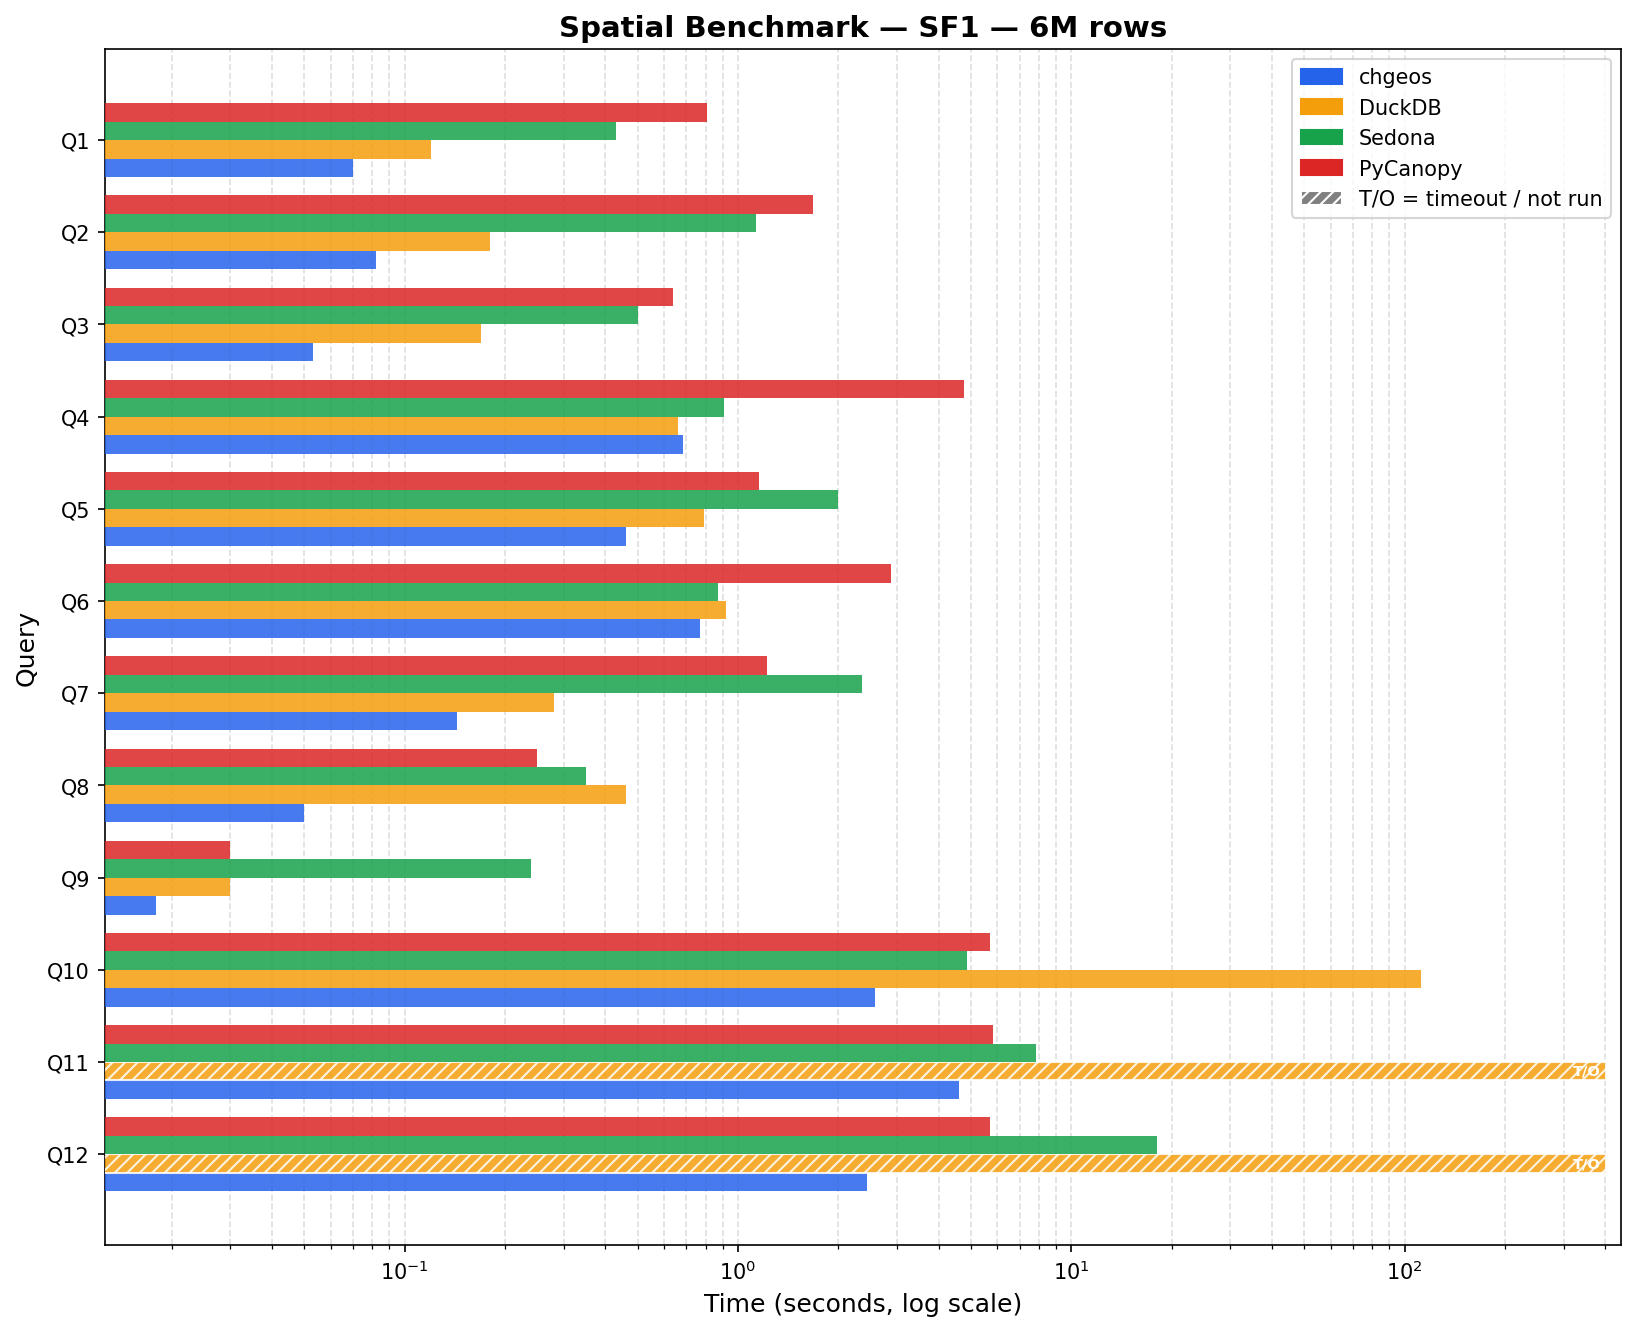
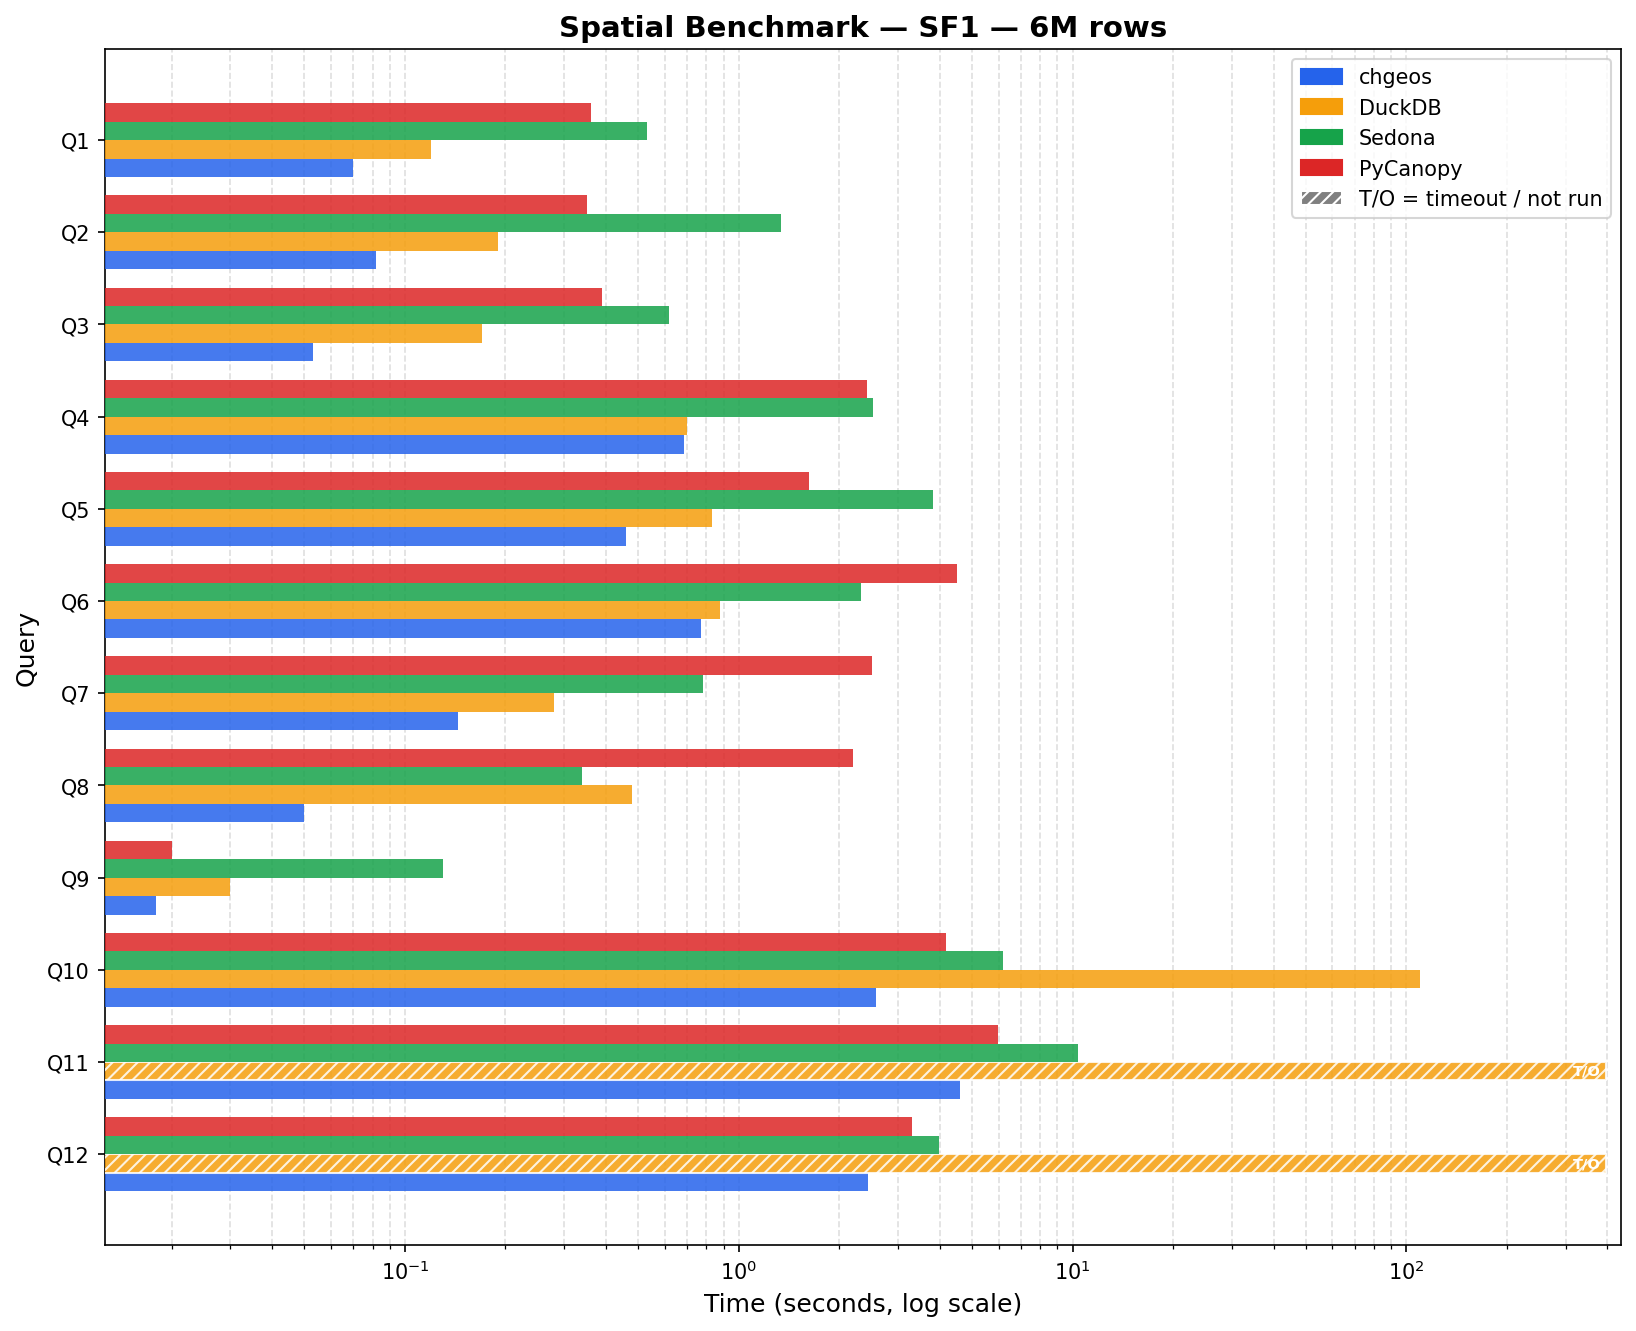
Re-measure DuckDB, SedonaDB and PyCanopy on 2026-10-04
DuckDB 1.5.6, SedonaDB 0.4.1, PyCanopy 0.4.1 on the same box and split
Parquet files, 5 runs, 120 s timeout. Tallies unchanged: SF1 11 wins +
1 tie, SF10 9 wins, 2 DuckDB (Q4, Q7), 1 tie.

Claude-Session: https://claude.ai/code/session_01JZhEQgwKLv4Drk38uDWLaY

diff --git a/BENCHMARK.md b/BENCHMARK.md
@@ -7,9 +7,10 @@ Apache Sedona (SedonaDB) and PyCanopy on the spatial benchmark suite.
 **Dataset:** synthetic taxi trip data from https://github.com/apache/sedona-spatialbench — SF1 = 6M trips, SF10 = 60M trips  
 **Timeout:** 120 s (all engines)  
 **chgeos version:** 2026-10-04 (CH `95fbe4909e6`)  
-**DuckDB version:** 1.5.6 (re-measured 2026-10-04)  
-**Sedona version:** 0.3.0  
-**PyCanopy:** measured 2026-07-29  
+**DuckDB version:** 1.5.6  
+**SedonaDB version:** 0.4.1  
+**PyCanopy version:** 0.4.1 (Polars 1.44.2)  
+**Competitors measured:** 2026-10-04, same box and split Parquet files, via sedona-spatialbench `run_benchmark.py`  
 **Runs:** 5 per query (average reported)  
 **Winner:** fastest engine; margins under 5% are reported as a tie
 
@@ -19,18 +20,18 @@ Apache Sedona (SedonaDB) and PyCanopy on the spatial benchmark suite.
 
 | Query | Description                        | chgeos   | DuckDB   | Sedona  | PyCanopy | Winner   |
 |-------|------------------------------------|----------|----------|---------|----------|----------|
-| Q1    | Point-in-radius filter             | 0.07 s   | 0.12 s   | 0.43 s  | 0.81 s   | chgeos   |
-| Q2    | Count trips in county polygon      | 0.08 s   | 0.18 s   | 1.13 s  | 1.68 s   | chgeos   |
-| Q3    | Monthly stats in bbox+buffer       | 0.05 s   | 0.17 s   | 0.50 s  | 0.64 s   | chgeos   |
-| Q4    | Zone distribution (top-1000 tips)  | 0.68 s   | 0.66 s   | 0.91 s  | 4.78 s   | Tie      |
-| Q5    | Convex hull area per customer/month| 0.46 s   | 0.79 s   | 2.00 s  | 1.16 s   | chgeos   |
-| Q6    | Zone stats for bbox-intersect zones| 0.77 s   | 0.92 s   | 0.87 s  | 2.88 s   | chgeos   |
-| Q7    | Detour ratio (all trips)           | 0.14 s   | 0.28 s   | 2.35 s  | 1.22 s   | chgeos   |
-| Q8    | Nearby pickups per building        | 0.05 s   | 0.46 s   | 0.35 s  | 0.25 s   | chgeos   |
-| Q9    | Building conflation via IoU        | 0.02 s   | 0.03 s   | 0.24 s  | 0.03 s   | chgeos   |
-| Q10   | Zone avg duration/distance         | 2.58 s   | 111.59 s | 4.87 s  | 5.70 s   | chgeos   |
-| Q11   | Cross-zone trip count              | 4.60 s   | TIMEOUT  | 7.82 s  | 5.84 s   | chgeos   |
-| Q12   | 5 nearest buildings per trip (kNN) | 2.44 s   | TIMEOUT  | 18.07 s | 5.71 s   | chgeos   |
+| Q1    | Point-in-radius filter             | 0.07 s   | 0.12 s   | 0.53 s  | 0.36 s   | chgeos   |
+| Q2    | Count trips in county polygon      | 0.08 s   | 0.19 s   | 1.34 s  | 0.35 s   | chgeos   |
+| Q3    | Monthly stats in bbox+buffer       | 0.05 s   | 0.17 s   | 0.62 s  | 0.39 s   | chgeos   |
+| Q4    | Zone distribution (top-1000 tips)  | 0.68 s   | 0.70 s   | 2.53 s  | 2.42 s   | Tie      |
+| Q5    | Convex hull area per customer/month| 0.46 s   | 0.83 s   | 3.83 s  | 1.62 s   | chgeos   |
+| Q6    | Zone stats for bbox-intersect zones| 0.77 s   | 0.88 s   | 2.32 s  | 4.52 s   | chgeos   |
+| Q7    | Detour ratio (all trips)           | 0.14 s   | 0.28 s   | 0.78 s  | 2.50 s   | chgeos   |
+| Q8    | Nearby pickups per building        | 0.05 s   | 0.48 s   | 0.34 s  | 2.20 s   | chgeos   |
+| Q9    | Building conflation via IoU        | 0.02 s   | 0.03 s   | 0.13 s  | 0.02 s   | chgeos   |
+| Q10   | Zone avg duration/distance         | 2.58 s   | 110.10 s | 6.20 s  | 4.18 s   | chgeos   |
+| Q11   | Cross-zone trip count              | 4.60 s   | TIMEOUT  | 10.39 s | 5.97 s   | chgeos   |
+| Q12   | 5 nearest buildings per trip (kNN) | 2.44 s   | TIMEOUT  | 3.97 s  | 3.31 s   | chgeos   |
 
 **SF1 wins — chgeos: 11, DuckDB: 0, Sedona: 0, PyCanopy: 0, Ties: 1**
 
@@ -66,26 +67,25 @@ explained by this — see the Q7 note below.
 
 | Query | Description                        | chgeos    | DuckDB   | Sedona   | PyCanopy | Winner   |
 |-------|------------------------------------|-----------|----------|----------|----------|----------|
-| Q1    | Point-in-radius filter             | 0.31 s    | 0.33 s   | 0.94 s   | 18.93 s  | chgeos   |
-| Q2    | Count trips in county polygon      | 0.38 s    | 0.48 s   | 1.64 s   | 12.81 s  | chgeos   |
-| Q3    | Monthly stats in bbox+buffer       | 0.33 s    | 0.45 s   | 1.43 s   | 14.59 s  | chgeos   |
-| Q4    | Zone distribution (top-1000 tips)  | 1.14 s    | 1.08 s   | 1.86 s   | 19.80 s  | DuckDB   |
-| Q5    | Convex hull area per customer/month| 5.24 s    | 7.36 s   | 42.43 s  | 21.93 s  | chgeos   |
-| Q6    | Zone stats for bbox-intersect zones| 1.59 s    | 1.59 s   | 2.86 s   | 7.74 s   | Tie      |
-| Q7    | Detour ratio (all trips)           | 0.96 s    | 0.84 s   | 42.28 s  | 14.39 s  | DuckDB   |
-| Q8    | Nearby pickups per building        | 0.50 s    | 1.53 s   | 2.02 s   | 2.69 s   | chgeos   |
-| Q9    | Building conflation via IoU        | 0.04 s    | 0.13 s   | 0.37 s   | 0.06 s   | chgeos   |
-| Q10   | Zone avg duration/distance         | 14.05 s   | TIMEOUT  | 17.02 s  | 27.05 s  | chgeos   |
-| Q11   | Cross-zone trip count              | 28.22 s   | TIMEOUT  | TIMEOUT  | 42.97 s  | chgeos   |
-| Q12   | 5 nearest buildings per trip (kNN) | 31.67 s   | TIMEOUT  | TIMEOUT  | 98.60 s  | chgeos   |
+| Q1    | Point-in-radius filter             | 0.31 s    | 0.41 s   | 1.45 s   | 3.19 s   | chgeos   |
+| Q2    | Count trips in county polygon      | 0.38 s    | 0.47 s   | 2.29 s   | 3.02 s   | chgeos   |
+| Q3    | Monthly stats in bbox+buffer       | 0.33 s    | 0.50 s   | 2.20 s   | 3.34 s   | chgeos   |
+| Q4    | Zone distribution (top-1000 tips)  | 1.14 s    | 0.98 s   | 4.48 s   | 6.48 s   | DuckDB   |
+| Q5    | Convex hull area per customer/month| 5.24 s    | 6.28 s   | 25.94 s  | 21.68 s  | chgeos   |
+| Q6    | Zone stats for bbox-intersect zones| 1.59 s    | 1.55 s   | 4.58 s   | 12.47 s  | Tie      |
+| Q7    | Detour ratio (all trips)           | 0.96 s    | 0.80 s   | 2.95 s   | 23.65 s  | DuckDB   |
+| Q8    | Nearby pickups per building        | 0.50 s    | 1.52 s   | 1.87 s   | 16.11 s  | chgeos   |
+| Q9    | Building conflation via IoU        | 0.04 s    | 0.14 s   | 0.25 s   | 0.05 s   | chgeos   |
+| Q10   | Zone avg duration/distance         | 14.05 s   | TIMEOUT  | 18.03 s  | 31.21 s  | chgeos   |
+| Q11   | Cross-zone trip count              | 28.21 s   | TIMEOUT  | 36.39 s  | 34.27 s  | chgeos   |
+| Q12   | 5 nearest buildings per trip (kNN) | 31.67 s   | TIMEOUT  | 41.47 s  | 36.23 s  | chgeos   |
 
 **SF10 wins — chgeos: 9, DuckDB: 2, Sedona: 0, PyCanopy: 0, Ties: 1**
 
 chgeos SF10 was re-measured on 2026-10-04 at CH `95fbe4909e6` (COLUMNAR_V1 wire,
 5 runs, averages, load average ~19 from unrelated processes, so treat sub-2-second rows as
-±10%). DuckDB SF10 is from earlier the same day on the same split files; DuckDB Q11/Q12 were
-not re-run (both timed out in every earlier measurement). Sedona (2026-05-06) and PyCanopy
-(2026-07-29) were measured on the older single-file layout and have not been re-run.
+±10%). DuckDB, SedonaDB and PyCanopy were all re-measured the same day on the same split files
+(5 runs, averages, 120 s timeout).
 
 Q10 and Q11 moved from losses to wins (Q10 30.0 → 14.0 s, Q11 45.6 → 26.9 s), all from
 host-side work in `SpatialRTreeJoin`, not WASM:
@@ -118,10 +118,7 @@ the fastest and slowest of the 5 runs, so the sub-second rows are tighter than
 usual; they are still Parquet-I/O bound and still drift ±25% across machine
 states. The Q3, Q8 and Q11 ties are all under 5%, and Q3 and Q11 flipped from a
 DuckDB and a PyCanopy win purely on that margin.
-Both DuckDB columns were re-measured on 2026-08-06 with DuckDB 1.5.5, which is far
-faster than the 1.5.2 numbers this file used to carry (SF10 Q7 68.31 s → 0.93 s,
-SF1 Q7 6.53 s → 0.26 s, SF1 Q10 TIMEOUT → 99.97 s). Sedona is from 2026-05-06 and
-PyCanopy from 2026-07-29, and neither has been re-measured since.
+Competitor columns are re-measured on 2026-10-04 (DuckDB 1.5.6, SedonaDB 0.4.1, PyCanopy 0.4.1).
 Treat the sub-2-second SF10 rows as indicative, not as a ranking.
 
 ![SF10 benchmark](sf10.png)
@@ -135,9 +132,8 @@ hint is required to keep the WASM convex hull running on parallel threads before
 ORDER BY merge. Without it, ClickHouse defers the function to the single-threaded
 post-sort stage, causing ~7× slowdown. Q5 also needs `max_bytes_ratio_before_external_group_by=0`
 at SF10: it accumulates ~15 GiB across 3.1M groups, and the default ratio spills to disk at
-0.5 × `max_server_memory_usage`, costing ~3.5 s. DuckDB leads at both scales (0.69 s vs
-chgeos 0.79 s at SF1, 6.11 s vs 8.95 s at SF10); PyCanopy is 22 s at SF10 and Sedona 4×
-slower (42 s).
+0.5 × `max_server_memory_usage`, costing ~3.5 s. chgeos now leads at both scales (0.46 s vs DuckDB 0.83 s at SF1,
+5.24 s vs 6.28 s at SF10); PyCanopy is 21.7 s and SedonaDB 25.9 s at SF10.
 
 `st_collect_agg` can be registered either as a plain WASM UDF fed by `groupArray`, or as a
 native aggregate via `SETTINGS is_aggregate = 1`, which accumulates rows into arena nodes
@@ -148,10 +144,10 @@ SF10 — for 0.1–0.5 GiB more peak memory, so `st_collect_agg` dropped the set
 
 **Q7 (detour ratio):** Scans all rows computing `st_length(st_makeline(...))` with no
 spatial join. WasmChainFusionPass fuses `st_makeline → st_length` into a single WASM
-call, eliminating the intermediate WKB round-trip. That is enough to beat Sedona (2.35 s /
-42.3 s) and PyCanopy (1.22 s / 14.4 s) at both scales, and since the flat path below it
-also takes SF1 from DuckDB 1.5.5 — 0.21 s vs 0.26 s. DuckDB still wins SF10, 0.93 s vs
-1.86 s. DuckDB 1.5.2 needed 6.53 s / 68.3 s here, so most of that engine's position is a
+call, eliminating the intermediate WKB round-trip. That is enough to beat SedonaDB (0.78 s /
+2.95 s) and PyCanopy (2.50 s / 23.65 s) at both scales, and the flat path below it
+also takes SF1 from DuckDB — 0.14 s vs 0.28 s. DuckDB still wins SF10, 0.80 s vs
+0.96 s. DuckDB 1.5.2 needed 6.53 s / 68.3 s here, so most of that engine's position is a
 25× / 73× improvement on its own side, not a chgeos regression. The remaining SF10 gap is
 the largest against chgeos in the suite, and unlike the SF1 rows above it is not an
 artifact of the file layout.
@@ -184,11 +180,10 @@ still performs per row while DuckDB reads points in place out of the Parquet blo
 
 **Q9 (building IoU):** Self-join of ~20K buildings. SpatialRTreeJoin evaluates
 non-spatial ON conditions (e.g. `b1.id < b2.id`) as a pre-filter before the spatial
-predicate, cutting candidate pairs dramatically. At SF1 chgeos, DuckDB and PyCanopy all
-land at 0.03 s, which is below the resolution of these measurements — scored as a tie.
-At SF10 chgeos beats DuckDB and Sedona but PyCanopy is faster (0.06 s vs 0.10 s).
+predicate, cutting candidate pairs dramatically. All engines land at or below 0.25 s, near the
+resolution of these measurements; chgeos is 0.02 s / 0.04 s against PyCanopy 0.02 s / 0.05 s.
 
-**Q10 at SF10:** chgeos 14.0 s, Sedona 17.0 s, PyCanopy 27.1 s, DuckDB TIMEOUT. The remaining
+**Q10 at SF10:** chgeos 14.0 s, SedonaDB 18.0 s, PyCanopy 31.2 s, DuckDB TIMEOUT. The remaining
 cost is the 60M-trip R-tree build (~5 s) plus a probe tail: a few zone blocks with millions of
 candidate trips each run longer than the rest on one thread.
 
@@ -198,8 +193,8 @@ dropoff zone with two independent spatial joins, then match the two results on `
 The spatialbench SQL text instead chains the dropoff join onto the pickup join's output; the
 answer is identical (verified against the reference at SF1 and SF10). With the chained text
 chgeos measured ~6.0 s at SF1 (a tie with PyCanopy) and 26.9 s at SF10; with the two-join
-plan it is 4.60 s and 28.2 s (5 runs, fresh server). DuckDB and Sedona run the chained SQL;
-both time out at SF10, as does DuckDB at SF1.
+plan it is 4.60 s and 28.2 s (5 runs, fresh server), against PyCanopy 5.97 s / 34.3 s and
+SedonaDB 10.4 s / 36.4 s. DuckDB runs the chained SQL and times out at both scales.
 
 **Q12 (kNN):** WASM `st_knn` uses a static 2-D centroid k-d tree for candidate selection,
 then refines the surviving candidates to an exact point-to-geometry distance. The tree
@@ -207,4 +202,4 @@ alone reports centroid distance, which is not what `ST_Distance` means — befor
 refinement landed, Q12 disagreed with the reference answers. Refinement reads coordinates
 flattened once at index build, so it needs no GEOS parse per row, and Q12 got
 *faster*: 10.9 s → 2.0 s at SF1, 103.8 s → 27.3 s at SF10. chgeos now leads the query at
-both scales; DuckDB and Sedona still time out at SF10, and PyCanopy is 5.7 s / 98.6 s.
+both scales; DuckDB times out at both, SedonaDB is 3.97 s / 41.5 s and PyCanopy 3.31 s / 36.2 s.
